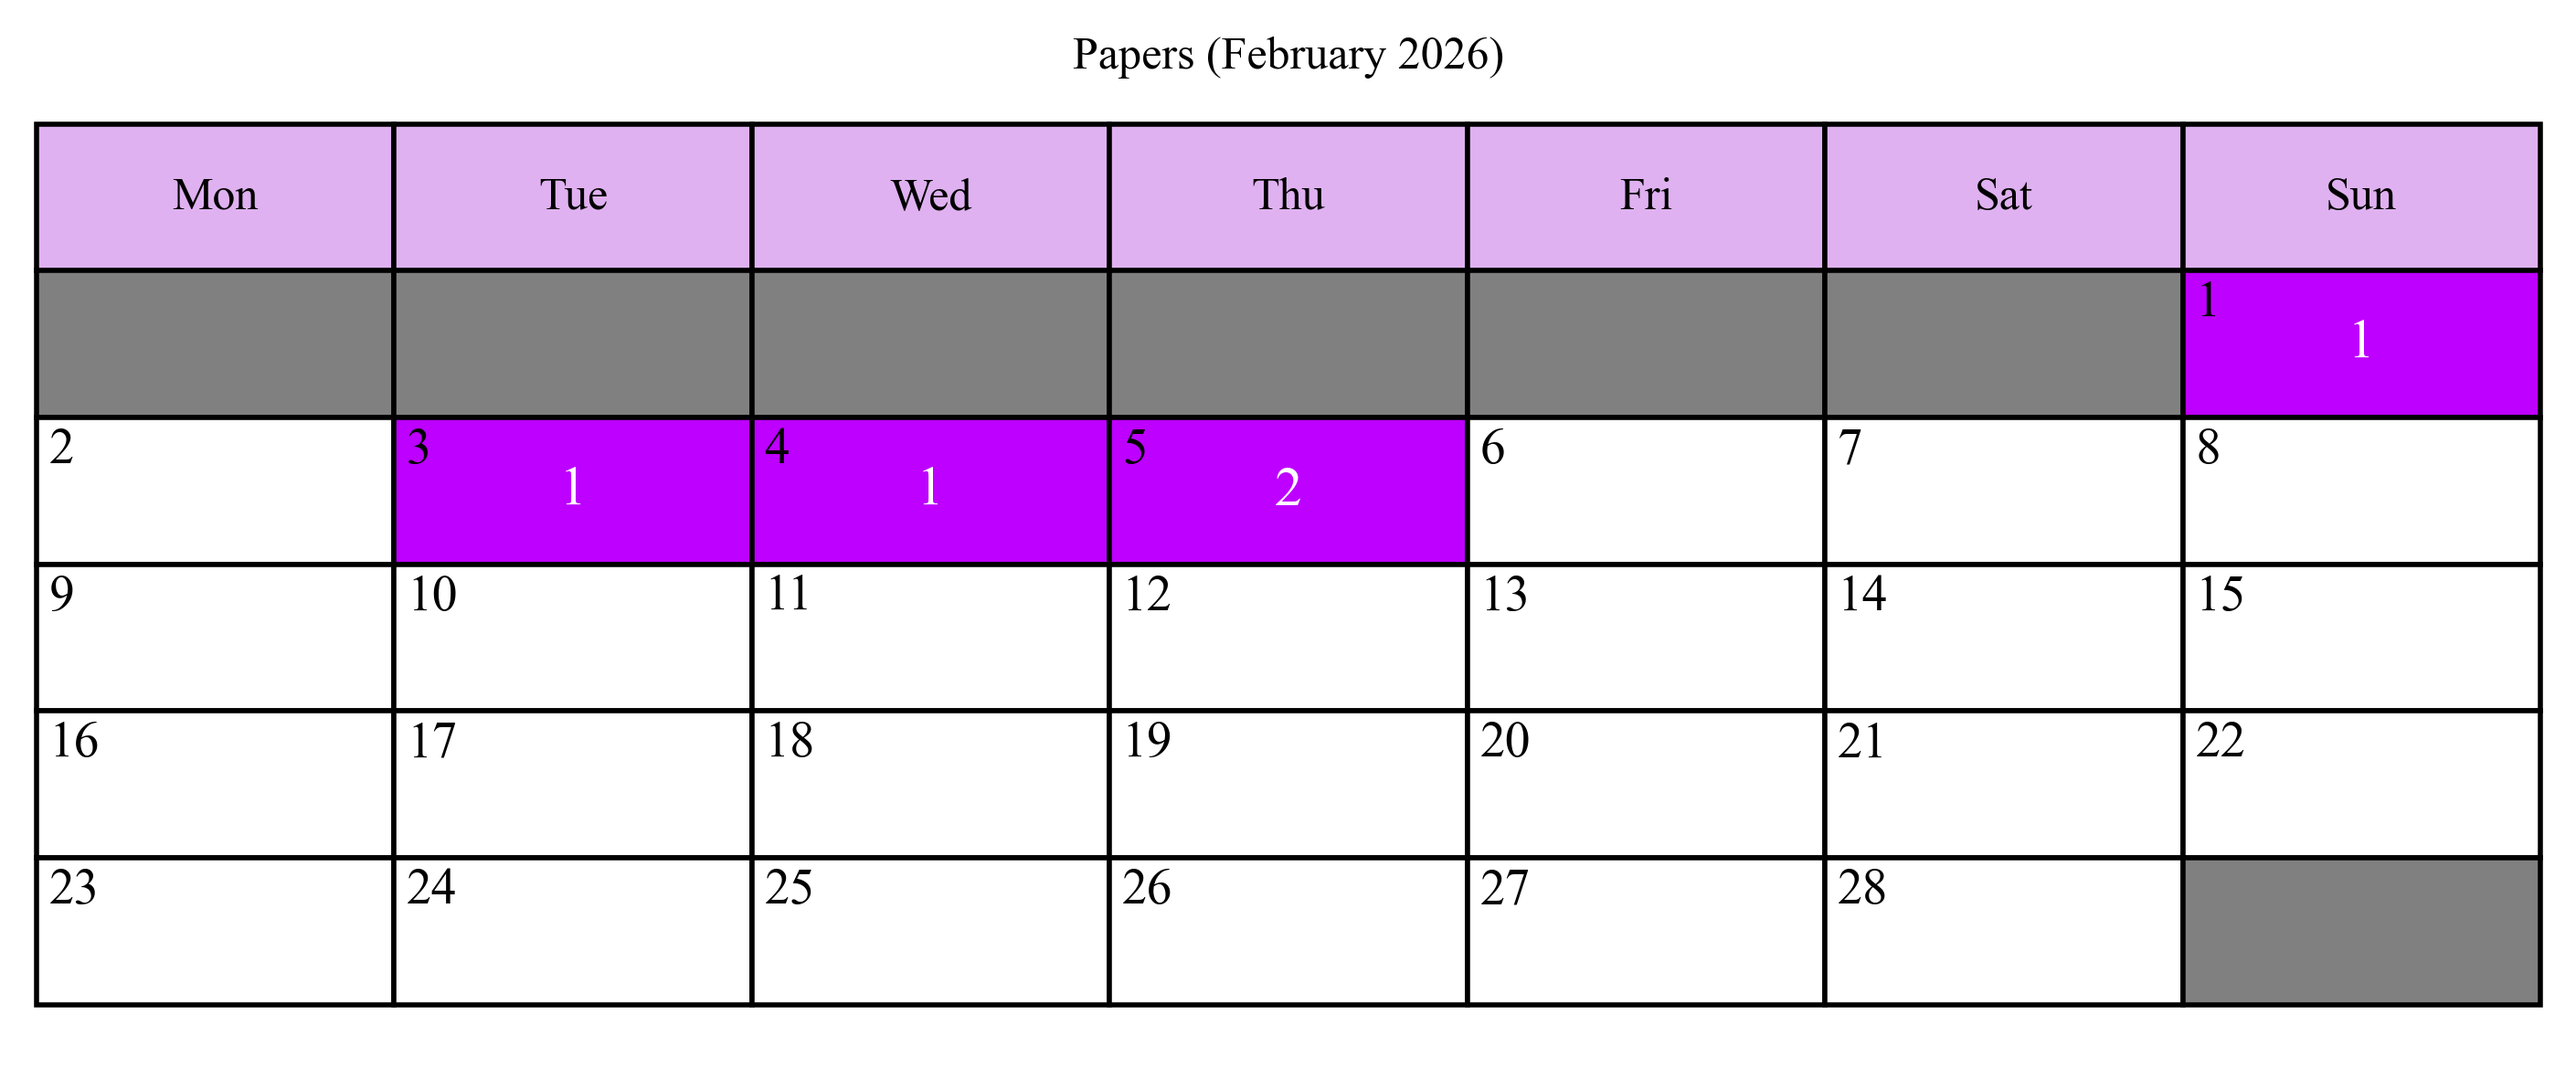
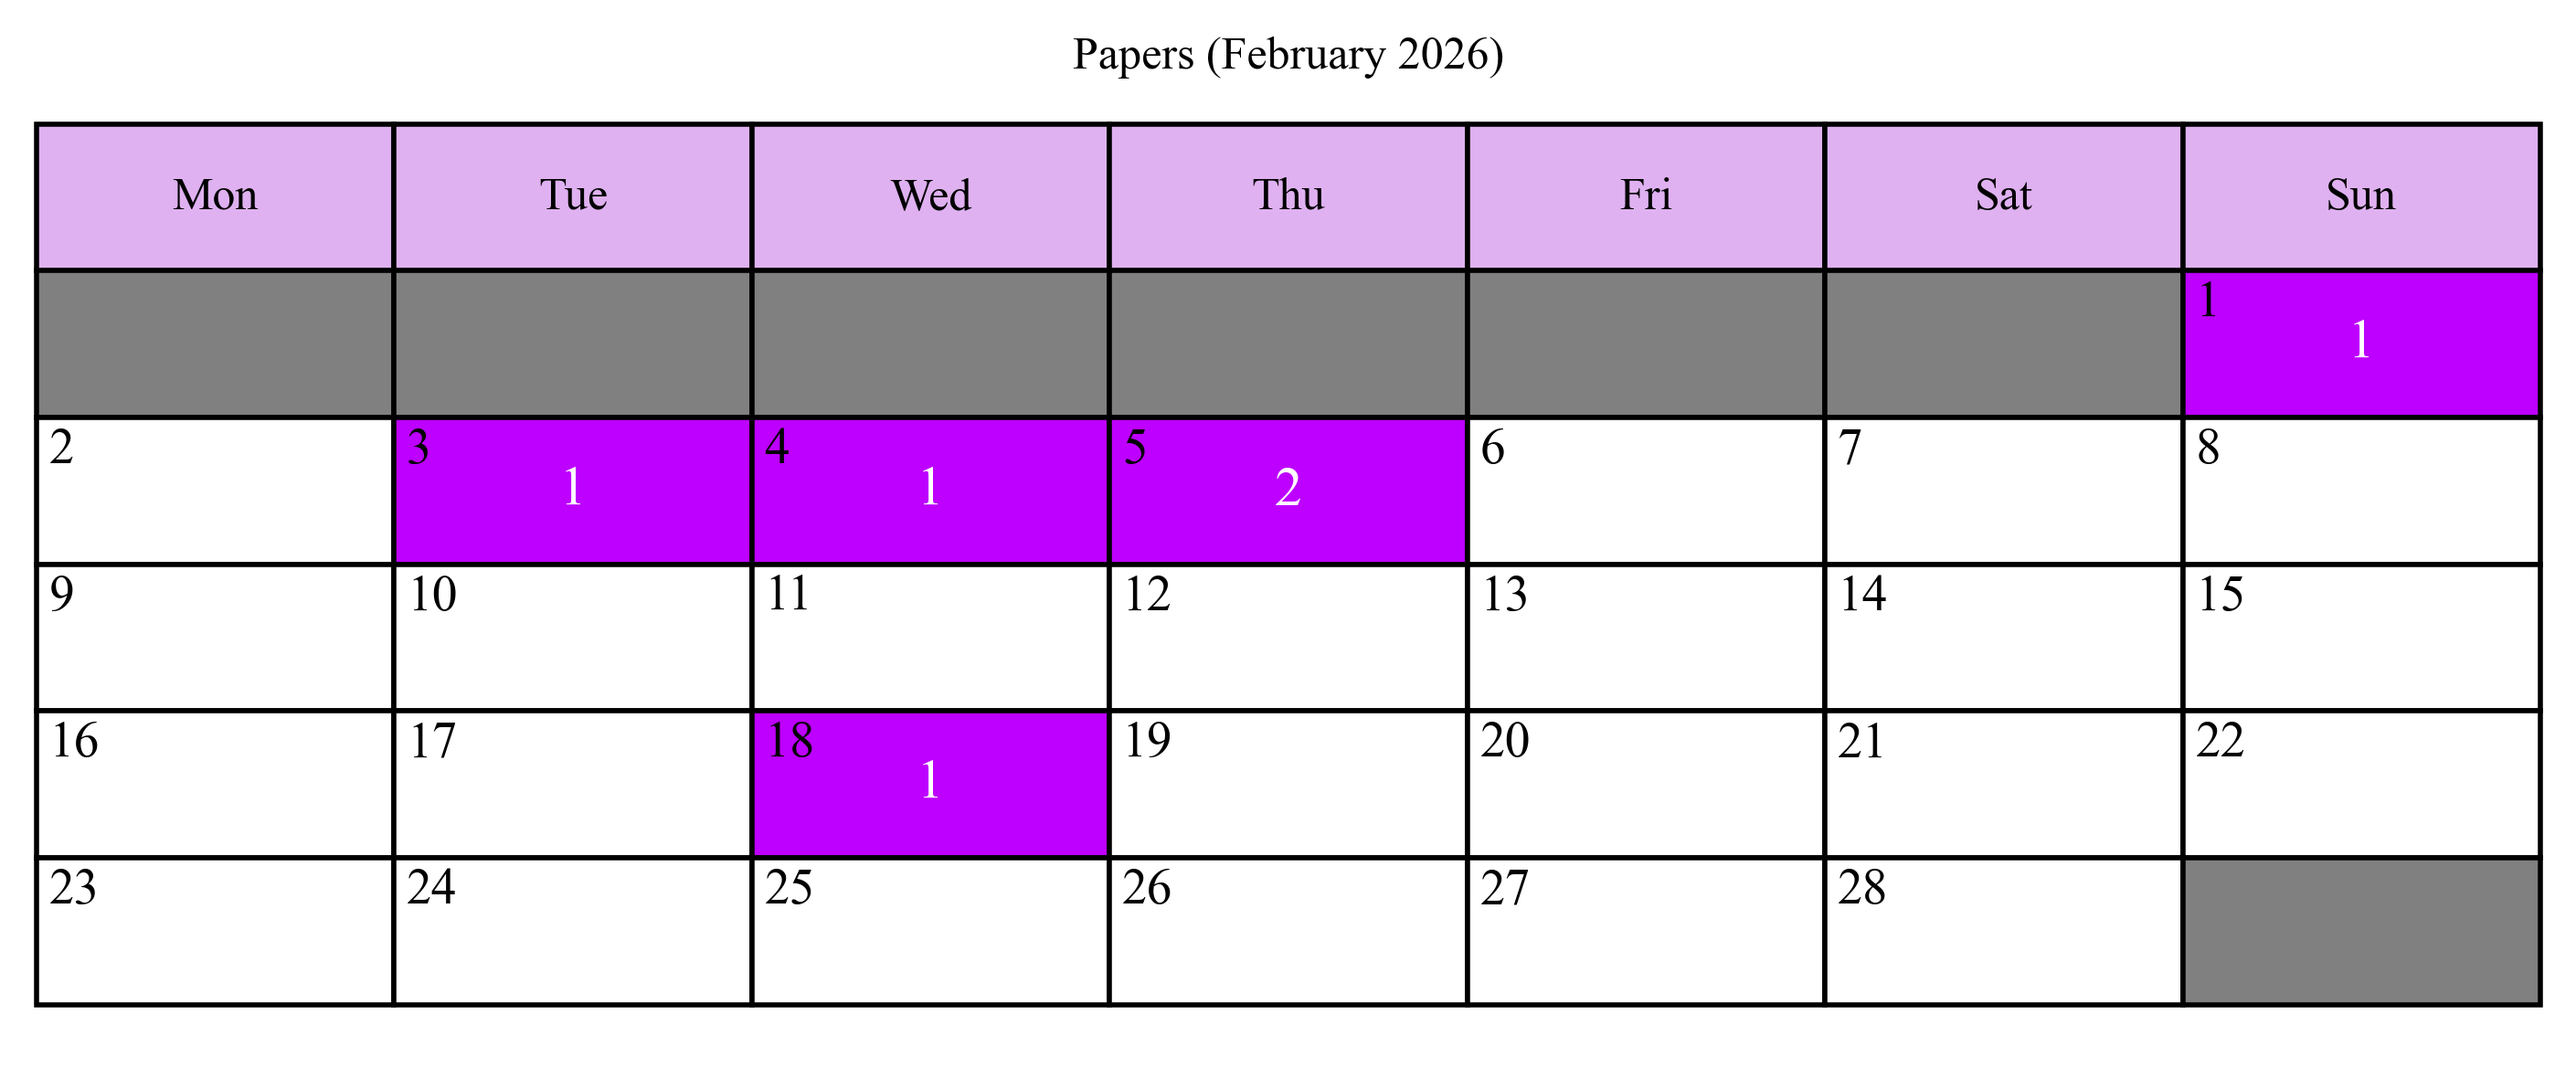
(Automated) updated paper log: February 19, 2026

Changed region(s): [[0.281, 0.6473, 0.437, 0.8014]]

diff --git a/papers/index.html b/papers/index.html
@@ -29,11 +29,12 @@
       <div class="main-content">
         <div class="main-section">
           <!-- <summary_text> -->
-<p>This is where I log the papers I've read this year. My goal for 2026 is to read 300 papers. By the time this document was last updated (<b>February 06, 2026</b>), I have read <b>19 papers</b> this year. I should have read <b>30 papers</b> by this time, meaning I am <b>11 papers behind schedule</b>.</p>
+<p>This is where I log the papers I've read this year. My goal for 2026 is to read 300 papers. By the time this document was last updated (<b>February 19, 2026</b>), I have read <b>20 papers</b> this year. I should have read <b>39 papers</b> by this time, meaning I am <b>19 papers behind schedule</b>.</p>
           <!-- </summary_text> -->
           <p><img src="cal.png" style="width: 100%;" alt="A monthly calendar depicting the following tabular data graphically."></p>
           <!-- <paper_table> -->
 <table>
+  <tr><td>2/18/26</td><td>The Memory Processing Unit: A Generalized Interface for End-to-End In-Memory Execution</td><td><a href="https://ghose.cs.illinois.edu/papers/26hpca_mpu.pdf" target="_parent">Link</a></td><td>University of Illinois, HPCA, 2026</td></tr>
   <tr><td>2/5/26</td><td>ATLAHS: An Application-centric Network Simulator Toolchain for AI, HPC, and Distributed Storage</td><td><a href="https://dl.acm.org/doi/10.1145/3712285.3759838" target="_parent">Link</a></td><td>ETH Zurich, SC, 2025</td></tr>
   <tr><td>2/5/26</td><td>Real-Time Object Detection and Recognition in FPGA-Based Autonomous Driving Systems</td><td><a href="https://www.ijcttjournal.org/archives/ijctt-v72i4p119" target="_parent">Link</a></td><td>Samsung, IJCTT, 2024</td></tr>
   <tr><td>2/4/26</td><td>Harmonic CUDA: Asynchronous Programming on GPUs</td><td><a href="https://dl.acm.org/doi/10.1145/3582514.3582517" target="_parent">Link</a></td><td>University of California/NVIDIA, PMAM, 2023</td></tr>
@@ -67,7 +68,7 @@
       <!-- <last_updated_text> --> 
 <div class="last-updated">
   <p class="last-updated-text">
-    Last updated: February 06, 2026 at 17:10 UTC.
+    Last updated: February 19, 2026 at 01:30 UTC.
   </p>
 </div>
 
